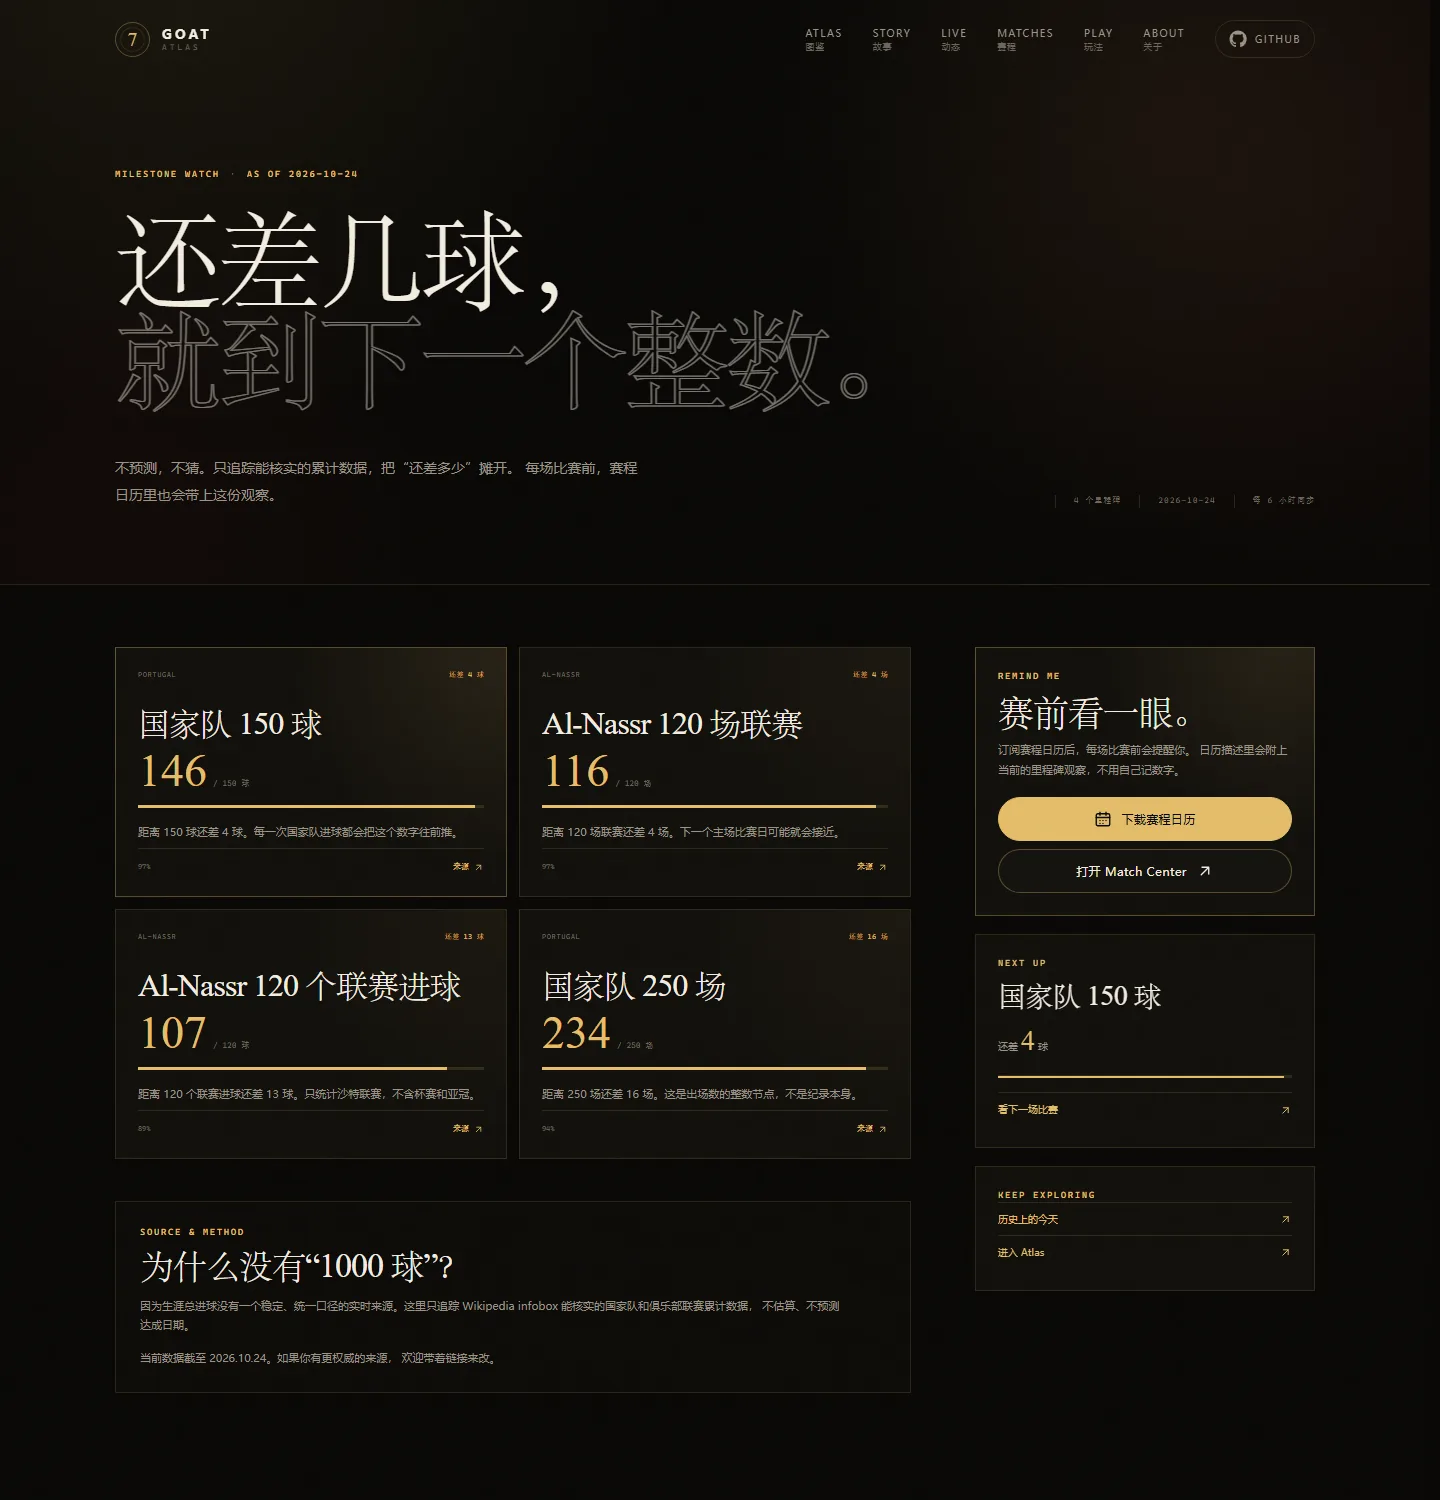
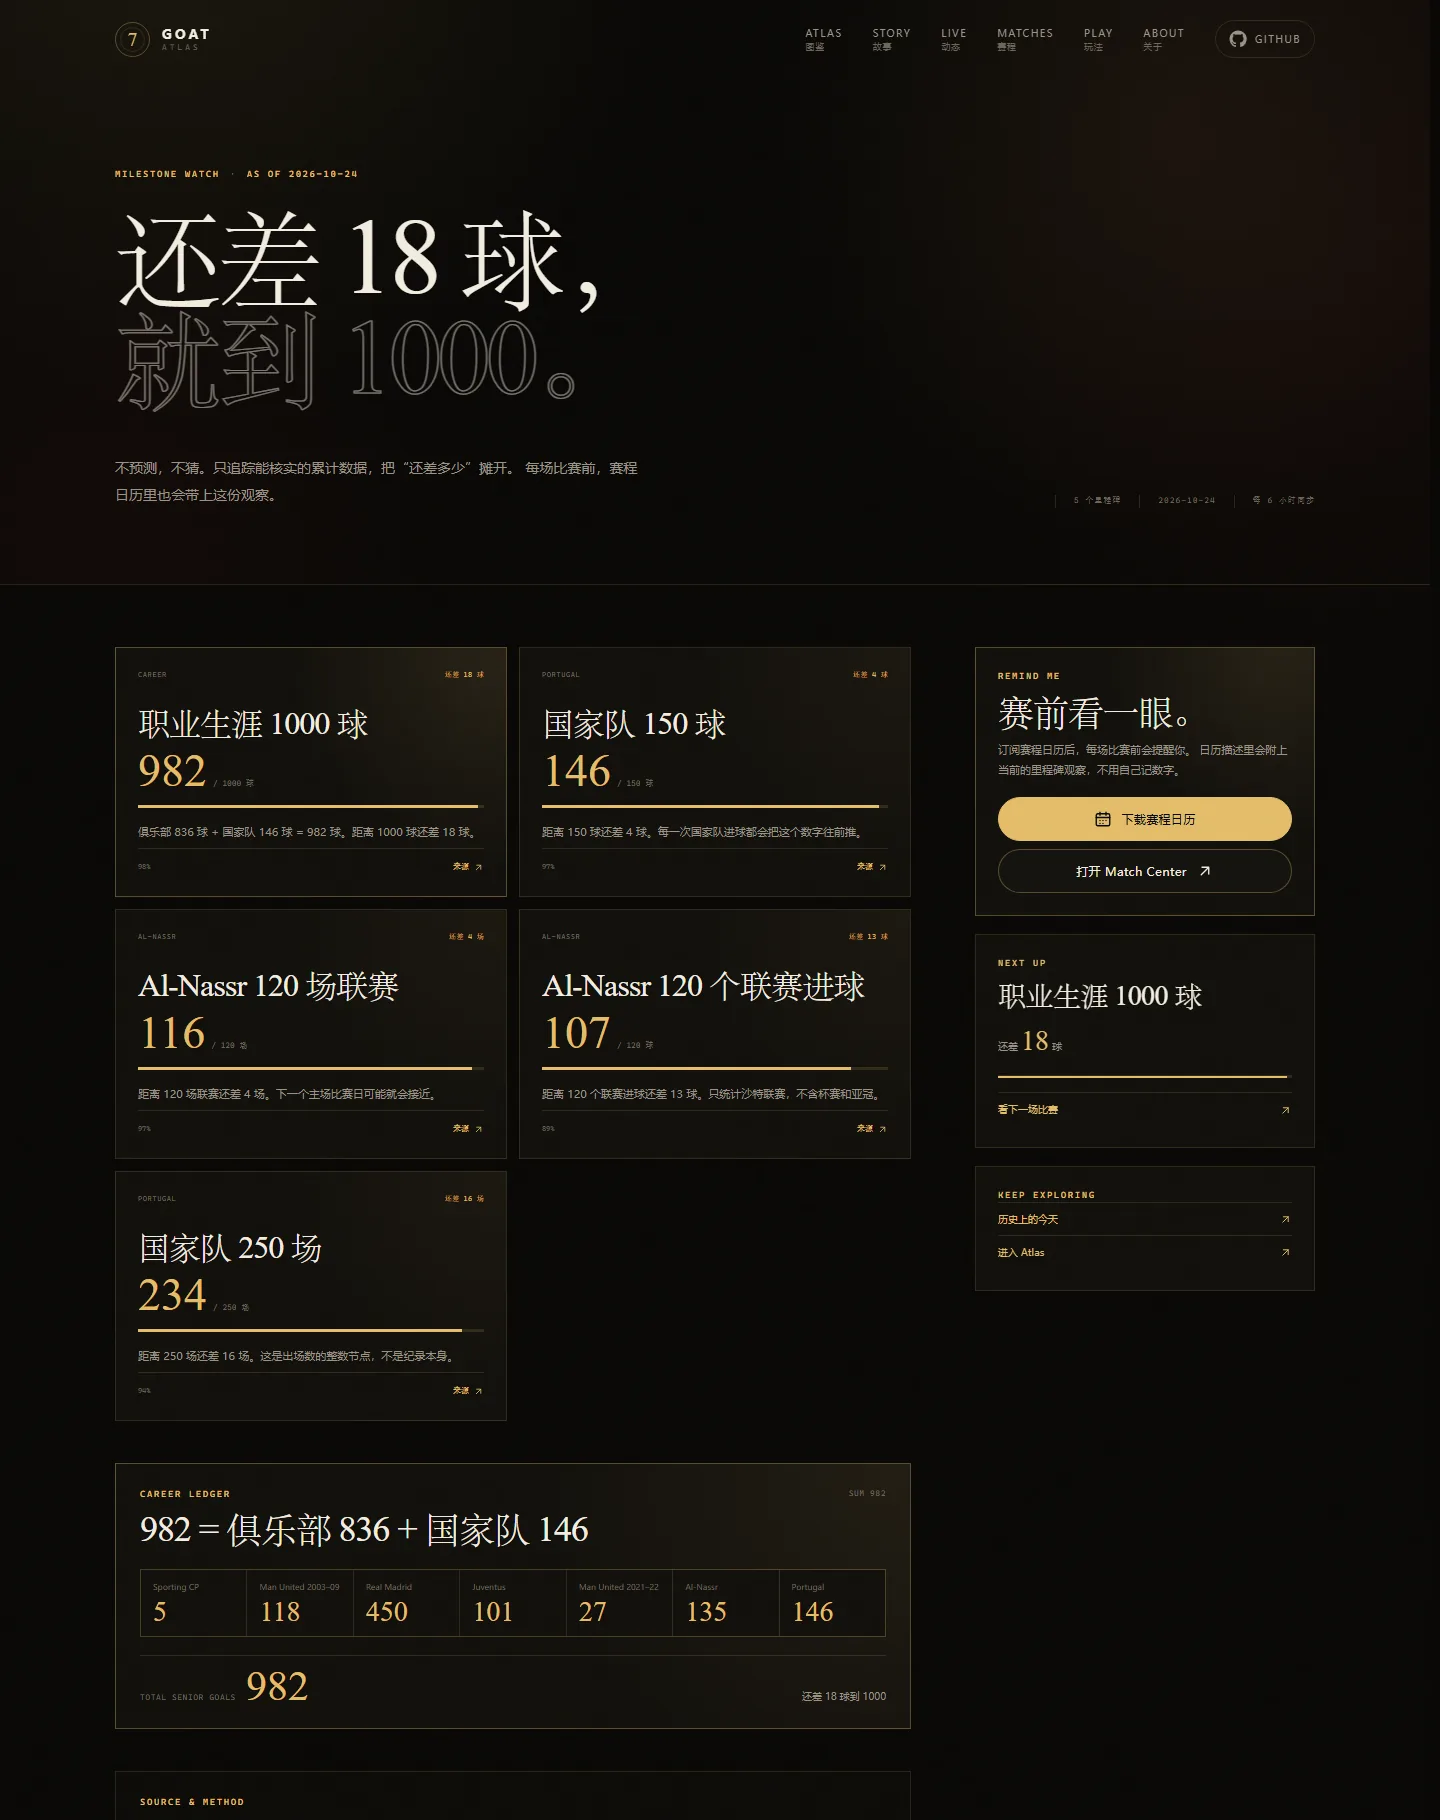
feat: track career 1000-goal milestone

diff --git a/app/milestones/page.tsx b/app/milestones/page.tsx
@@ -12,7 +12,7 @@ import { absoluteUrl, withBasePath } from "@/lib/site";
 export const metadata: Metadata = {
   title: "Milestones · 里程碑追踪",
   description:
-    "C 罗的国家队进球、国家队出场、Al-Nassr 联赛进球和联赛出场里程碑进度。只追踪可核实数据。",
+    "C 罗职业生涯 1000 球进度：俱乐部 836 + 国家队 146 = 982，还差 18 球。另含国家队与 Al-Nassr 里程碑。",
   alternates: { canonical: absoluteUrl("/milestones/") },
 };
 
@@ -20,6 +20,14 @@ export default function MilestonesPage() {
   const items = sortedMilestones();
   const next = items[0];
   const nextProgress = milestoneProgress(next);
+  const career = milestones.items.find(
+    (milestone) => milestone.id === "career-1000-goals",
+  );
+  const breakdownTotal =
+    career?.breakdown?.reduce((total, item) => total + item.value, 0) ?? 0;
+  const internationalTotal =
+    career?.breakdown?.find((item) => item.label === "Portugal")?.value ?? 0;
+  const clubTotal = breakdownTotal - internationalTotal;
 
   return (
     <>
@@ -29,9 +37,9 @@ export default function MilestonesPage() {
             MILESTONE WATCH <span>·</span> AS OF {milestones.asOf}
           </div>
           <h1>
-            还差几球，
+            还差 {nextProgress.remaining} {next.unit}，
             <br />
-            <span>就到下一个整数。</span>
+            <span>就到 {next.target}。</span>
           </h1>
           <div className="page-hero-bottom">
             <p>
@@ -109,17 +117,45 @@ export default function MilestonesPage() {
               })}
             </div>
 
+            {career?.breakdown ? (
+              <div className="career-ledger">
+                <div className="career-ledger-head">
+                  <div>
+                    <p className="eyebrow">CAREER LEDGER</p>
+                    <h2>
+                      {career.current} = 俱乐部 {clubTotal} + 国家队{" "}
+                      {internationalTotal}
+                    </h2>
+                  </div>
+                  <span>SUM {breakdownTotal}</span>
+                </div>
+                <div className="career-ledger-grid">
+                  {career.breakdown.map((item) => (
+                    <div key={item.label}>
+                      <span>{item.label}</span>
+                      <strong>{item.value}</strong>
+                    </div>
+                  ))}
+                </div>
+                <div className="career-ledger-foot">
+                  <span>Total senior goals</span>
+                  <strong>{career.current}</strong>
+                  <em>还差 {career.target - career.current} 球到 1000</em>
+                </div>
+              </div>
+            ) : null}
+
             <div className="milestone-method">
               <p className="eyebrow">SOURCE & METHOD</p>
-              <h2>为什么没有“1000 球”？</h2>
+              <h2>为什么是 982？</h2>
               <p>
-                因为生涯总进球没有一个稳定、统一口径的实时来源。这里只追踪
-                Wikipedia infobox 能核实的国家队和俱乐部联赛累计数据，
-                不估算、不预测达成日期。
+                俱乐部 836 球 + 国家队 146 球 = 982 球。俱乐部部分包含
+                Sporting CP、曼联（两段）、皇马、尤文和 Al-Nassr 的正式比赛；
+                只使用 Wikipedia 生涯统计表口径，不估算、不预测日期。
               </p>
               <p>
-                当前数据截至 {formatDate(milestones.asOf)}。如果你有更权威的来源，
-                欢迎带着链接来改。
+                1000 球还差 18 球。不同来源可能有不同统计口径，所以这里把拆分摊开，
+                而不是只给一个总数。当前数据截至 {formatDate(milestones.asOf)}。
               </p>
             </div>
           </div>

diff --git a/app/globals.css b/app/globals.css
@@ -4895,6 +4895,104 @@ svg {
   height: 11px;
 }
 
+.career-ledger {
+  margin-top: 18px;
+  padding: 24px;
+  border: 1px solid var(--line-strong);
+  background:
+    radial-gradient(circle at 100% 0%, rgba(227, 189, 106, 0.08), transparent 45%),
+    var(--panel);
+}
+
+.career-ledger-head {
+  display: flex;
+  align-items: flex-start;
+  justify-content: space-between;
+  gap: 20px;
+}
+
+.career-ledger-head h2 {
+  margin-top: 10px;
+  font-family: var(--font-display);
+  font-size: 36px;
+  font-weight: 400;
+  letter-spacing: -0.03em;
+  line-height: 1;
+}
+
+.career-ledger-head > span {
+  color: var(--muted-2);
+  font-family: var(--font-mono);
+  font-size: 8px;
+  letter-spacing: 0.08em;
+  white-space: nowrap;
+}
+
+.career-ledger-grid {
+  display: grid;
+  grid-template-columns: repeat(7, minmax(0, 1fr));
+  gap: 1px;
+  margin-top: 22px;
+  border: 1px solid var(--line);
+  background: var(--line);
+}
+
+.career-ledger-grid > div {
+  display: flex;
+  min-height: 66px;
+  flex-direction: column;
+  justify-content: space-between;
+  gap: 8px;
+  padding: 12px;
+  background: var(--panel);
+}
+
+.career-ledger-grid span {
+  color: var(--muted-2);
+  font-size: 8px;
+  line-height: 1.4;
+}
+
+.career-ledger-grid strong {
+  color: var(--gold);
+  font-family: var(--font-display);
+  font-size: 28px;
+  font-weight: 400;
+  line-height: 0.8;
+}
+
+.career-ledger-foot {
+  display: flex;
+  align-items: baseline;
+  gap: 10px;
+  margin-top: 18px;
+  padding-top: 14px;
+  border-top: 1px solid var(--line);
+}
+
+.career-ledger-foot > span {
+  color: var(--muted-2);
+  font-family: var(--font-mono);
+  font-size: 8px;
+  letter-spacing: 0.08em;
+  text-transform: uppercase;
+}
+
+.career-ledger-foot strong {
+  color: var(--gold);
+  font-family: var(--font-display);
+  font-size: 42px;
+  font-weight: 400;
+  line-height: 0.8;
+}
+
+.career-ledger-foot em {
+  margin-left: auto;
+  color: var(--muted);
+  font-size: 10px;
+  font-style: normal;
+}
+
 .milestone-method {
   margin-top: 18px;
   padding: 24px;
@@ -6647,6 +6745,32 @@ svg {
     font-size: 28px;
   }
 
+  .career-ledger {
+    padding: 18px;
+  }
+
+  .career-ledger-head {
+    flex-direction: column;
+    gap: 8px;
+  }
+
+  .career-ledger-head h2 {
+    font-size: 27px;
+  }
+
+  .career-ledger-grid {
+    grid-template-columns: repeat(2, minmax(0, 1fr));
+  }
+
+  .career-ledger-foot {
+    flex-wrap: wrap;
+  }
+
+  .career-ledger-foot em {
+    width: 100%;
+    margin-left: 0;
+  }
+
   .milestones-aside {
     display: flex;
   }
@@ -6677,6 +6801,10 @@ svg {
   .localized-era-grid,
   .localized-moment-grid {
     grid-template-columns: repeat(2, minmax(0, 1fr));
+  }
+
+  .career-ledger-grid {
+    grid-template-columns: repeat(4, minmax(0, 1fr));
   }
 }
 

diff --git a/lib/milestones.ts b/lib/milestones.ts
@@ -25,7 +25,9 @@ export function milestoneProgress(milestone: Milestone): {
 }
 
 export function sortedMilestones(): Milestone[] {
-  return [...milestones.items].sort(
-    (a, b) => milestoneProgress(a).remaining - milestoneProgress(b).remaining,
-  );
+  return [...milestones.items].sort((a, b) => {
+    if (a.featured && !b.featured) return -1;
+    if (b.featured && !a.featured) return 1;
+    return milestoneProgress(a).remaining - milestoneProgress(b).remaining;
+  });
 }

diff --git a/lib/types.ts b/lib/types.ts
@@ -180,6 +180,11 @@ export interface CompareData {
   metrics: CompareMetric[];
 }
 
+export interface MilestoneBreakdown {
+  label: string;
+  value: number;
+}
+
 export interface Milestone {
   id: string;
   title: string;
@@ -189,6 +194,8 @@ export interface Milestone {
   unit: string;
   description: string;
   source: string;
+  featured?: boolean;
+  breakdown?: MilestoneBreakdown[];
 }
 
 export interface MilestonesData {

diff --git a/lib/schemas.ts b/lib/schemas.ts
@@ -169,6 +169,15 @@ const milestoneSchema = z.object({
   unit: z.string().min(1),
   description: z.string().min(1),
   source: z.string().min(1),
+  featured: z.boolean().optional(),
+  breakdown: z
+    .array(
+      z.object({
+        label: z.string().min(1),
+        value: z.number().nonnegative(),
+      }),
+    )
+    .optional(),
 });
 
 export const milestonesSchema = z.object({

diff --git a/README.md b/README.md
@@ -60,7 +60,7 @@ C 罗是第一号展馆；数据结构从第一天起就是多球员设计。
 - **每日问答**：每天 5 题，答题解析、连续天数、结果分享卡
 - **GOAT 对比器**：6 个可核实指标，默认权重公开，权重可调
 - **历史上的今天**：日期精确匹配才叫 On This Day，没有匹配就展示“今日坐标”
-- **里程碑追踪**：国家队 150 球、250 场、Al-Nassr 联赛 120 球/场等进度
+- **里程碑追踪**：职业生涯 1000 球（当前 982 = 俱乐部 836 + 国家队 146）、国家队 150 球、250 场、Al-Nassr 联赛 120 球/场等进度
 - **多语言入口**：英文 / 葡语 overview（页脚入口，非全站翻译）
 - **来源标注**：每条记录至少一个可点击来源
 - **PWA**：可添加到主屏幕，带 manifest 和图标
@@ -250,7 +250,7 @@ gh secret set API_FOOTBALL_KEY --repo haohaohao-cell/goat-atlas
 - Wikipedia 回退只提供联赛/国家队总量和比赛结果；助攻、分钟、逐场事件要等 API-Football 付费套餐。
 - 自动数据只进入 Live 页，**不会自动改写 Atlas 里的策展故事**。新里程碑值得长期收藏时，再由编辑整理进 `moments.json`。
 - 数据源默认是 [API-Football](https://www.api-football.com/)，回退源是 [Wikipedia](https://en.wikipedia.org/wiki/Cristiano_Ronaldo)。球员 ID 固定为 `874`，可用 `API_FOOTBALL_PLAYER_ID` / `API_FOOTBALL_SEASON` 覆盖。
-- 里程碑页面只追踪可核实的国家队 / 俱乐部联赛累计数据，不估算生涯总进球，也不预测达成日期。
+- 里程碑页面使用 Wikipedia 生涯统计表口径：俱乐部 836 球 + 国家队 146 球 = **982 球**，距离 1000 球还差 18 球。拆分公开，不预测达成日期；不同来源口径可能不同。
 
 ## 赛前提醒怎么工作
 
